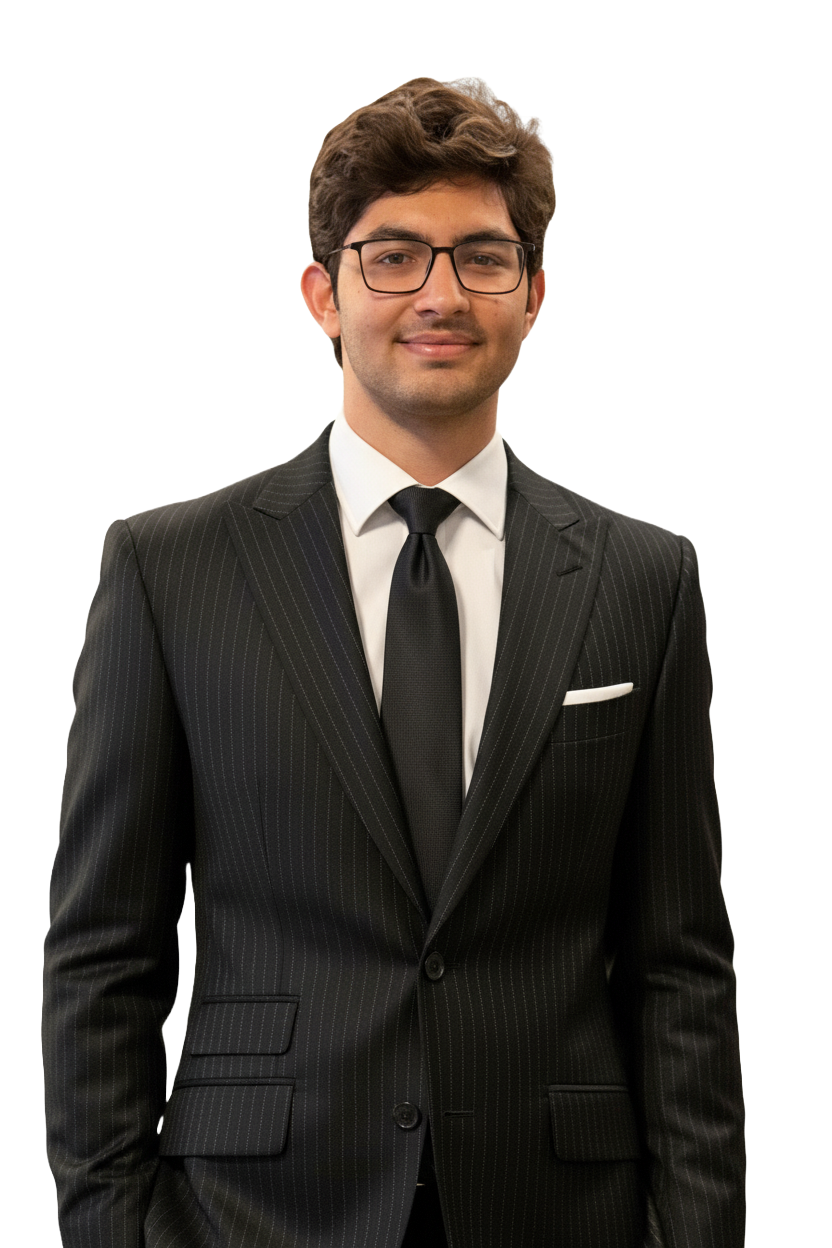
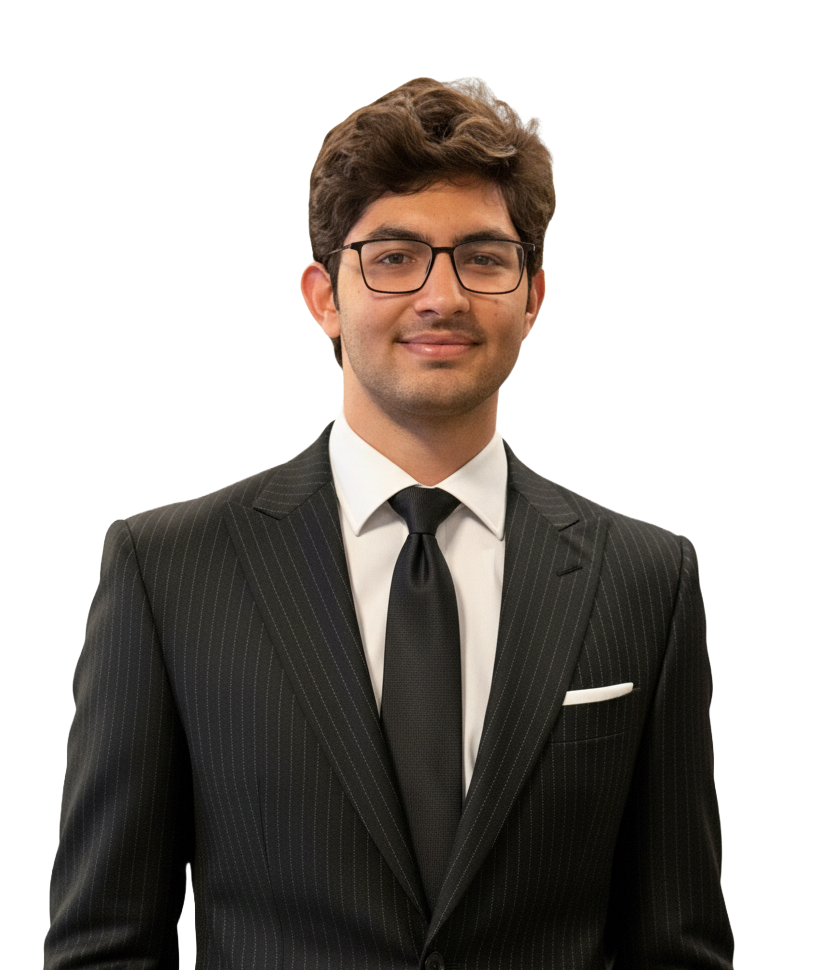
Update new profile photos

diff --git a/css/style.css b/css/style.css
@@ -371,8 +371,9 @@ nav.scrolled {
 }
 .hero-image img, .hero-image .hero-photo {
     display: block;
-    width: 900px !important;
-    height: 400px !important;
+    /* background: rgba(0,0,0,1); */
+    width: 450px !important;
+    height: 450px !important;
     object-fit: cover;
     border-radius: 200px;
 }
